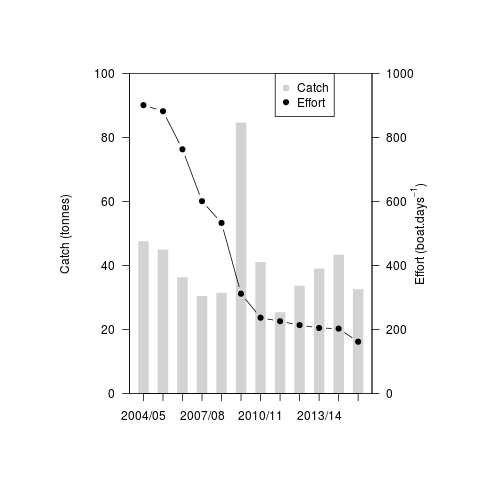
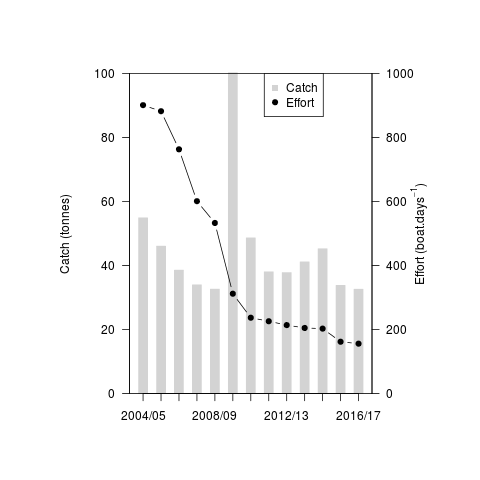
described updating the model in ExecuteAll.sh

diff --git a/Script/Results/Models/Mod2-FishingMortality.tex b/Script/Results/Models/Mod2-FishingMortality.tex
@@ -1,5 +1,5 @@
 % latex table generated in R 3.3.1 by xtable 1.7-4 package
-% Sat Jun  2 08:36:41 2018
+% Mon Jun  4 09:40:59 2018
 \begin{table}[ht]
 \centering
 \begin{tabular}{rrrrrrr}

diff --git a/Writing/Tables/GarfishAgeData.tex b/Writing/Tables/GarfishAgeData.tex
@@ -1,5 +1,5 @@
 % latex table generated in R 3.3.1 by xtable 1.7-4 package
-% Sat Jun  2 08:40:43 2018
+% Mon Jun  4 09:40:57 2018
 \begin{table}[ht]
 \centering
 \begin{tabular}{rrrrrrr}

diff --git a/Writing/Tables/GarfishWeightAtAge.tex b/Writing/Tables/GarfishWeightAtAge.tex
@@ -1,5 +1,5 @@
 % latex table generated in R 3.3.1 by xtable 1.7-4 package
-% Sat Jun  2 08:40:43 2018
+% Mon Jun  4 09:40:57 2018
 \begin{table}[ht]
 \centering
 \begin{tabular}{rrrrrrr}

diff --git a/Writing/Tables/WeightedGarfishAgeData.tex b/Writing/Tables/WeightedGarfishAgeData.tex
@@ -1,5 +1,5 @@
 % latex table generated in R 3.3.1 by xtable 1.7-4 package
-% Sat Jun  2 08:40:43 2018
+% Mon Jun  4 09:40:57 2018
 \begin{table}[ht]
 \centering
 \begin{tabular}{rrrrrrr}

diff --git a/Writing/Tables/GarfishCatchAndEffort.tex b/Writing/Tables/GarfishCatchAndEffort.tex
@@ -1,5 +1,5 @@
 % latex table generated in R 3.3.1 by xtable 1.7-4 package
-% Sat Jun  2 08:40:43 2018
+% Mon Jun  4 09:40:57 2018
 \begin{table}[ht]
 \centering
 \begin{tabular}{rrr}

diff --git a/README.md b/README.md
@@ -8,6 +8,10 @@ This repository provides data, methods, scripts and results used to estimate the
 
 The data consist of measurements of [age from a sample of commercial catches](Data/GarfishAgeData.csv), [weights from individual fish in specific intervals of age](Data/GarfishWeightAtAge.csv), [total catch](Data/GarfishCatchData.csv) and [effort](Data/GarfishEffortData.csv).
 
+Catch and fishing effort in this fishery have been declining since 2004/05. Catch have been somewhat more stable than effort, suggesting an increase in catch per unit effort.
+
+![alt text](https://github.com/mkienzle/NSW-sea-garfish-stock-assessment/blob/master/Script/Results/Graphics/CatchAndEffortVariations.png)
+
 ## Methods
 
 Several models describing how mortality rates varied by age-group through time (depending on fishing effort, catchability and age-specific gear selectivity) were developed. All models assume a constant rate of mortality due to natural causes which was estimated. These mortality models have been expressed using hazard functions and converted into probabilities of dying at age from fishing using methods developed in the field of statistics called [survival analysis](https://link.springer.com/article/10.1007%2Fs13253-015-0237-y). These age-specific probabilities of dying from fishing were combined with age data sampled from commercial catches into a likelihood function. A range of hypotheses regarding gear selectivity and natural mortality expressed into the mortality models were compared with Akaike Information Criteria (AIC). 
